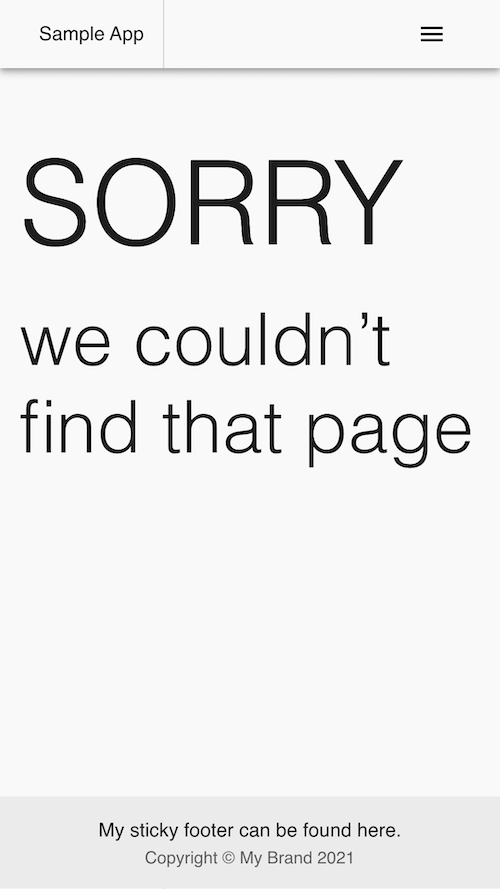
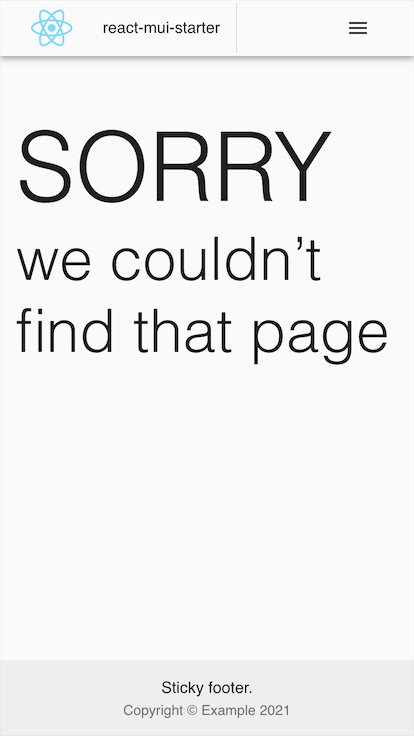
Update screenshots and some copy

diff --git a/src/Pages/Samples/Okta/OktaOIDC.js b/src/Pages/Samples/Okta/OktaOIDC.js
@@ -157,7 +157,7 @@ class OktaOIDC extends Component {
                 </Link>
               </ListItem>
               <ListItem>
-                <Link href="https://github.com/jagjitgill/react-mui-starter/blob/sample/src/Pages/Sample/Okta/OktaOIDC.js">
+                <Link href="https://github.com/jagjitgill/react-mui-starter/blob/master/src/Pages/Samples/Okta/OktaOIDC.js">
                   - Sample source code
                 </Link>
               </ListItem>

diff --git a/src/Components/MenuBar/TopBar.js b/src/Components/MenuBar/TopBar.js
@@ -196,7 +196,7 @@ const TopBar = () => {
           <Box display="flex">
             <img src={Logo} alt="Logo" className={classes.logo} />
             <Typography component="div" className={classes.brand}>
-              UI Playground
+              react-mui-starter
             </Typography>
             <Divider orientation="vertical" flexItem />
           </Box>
